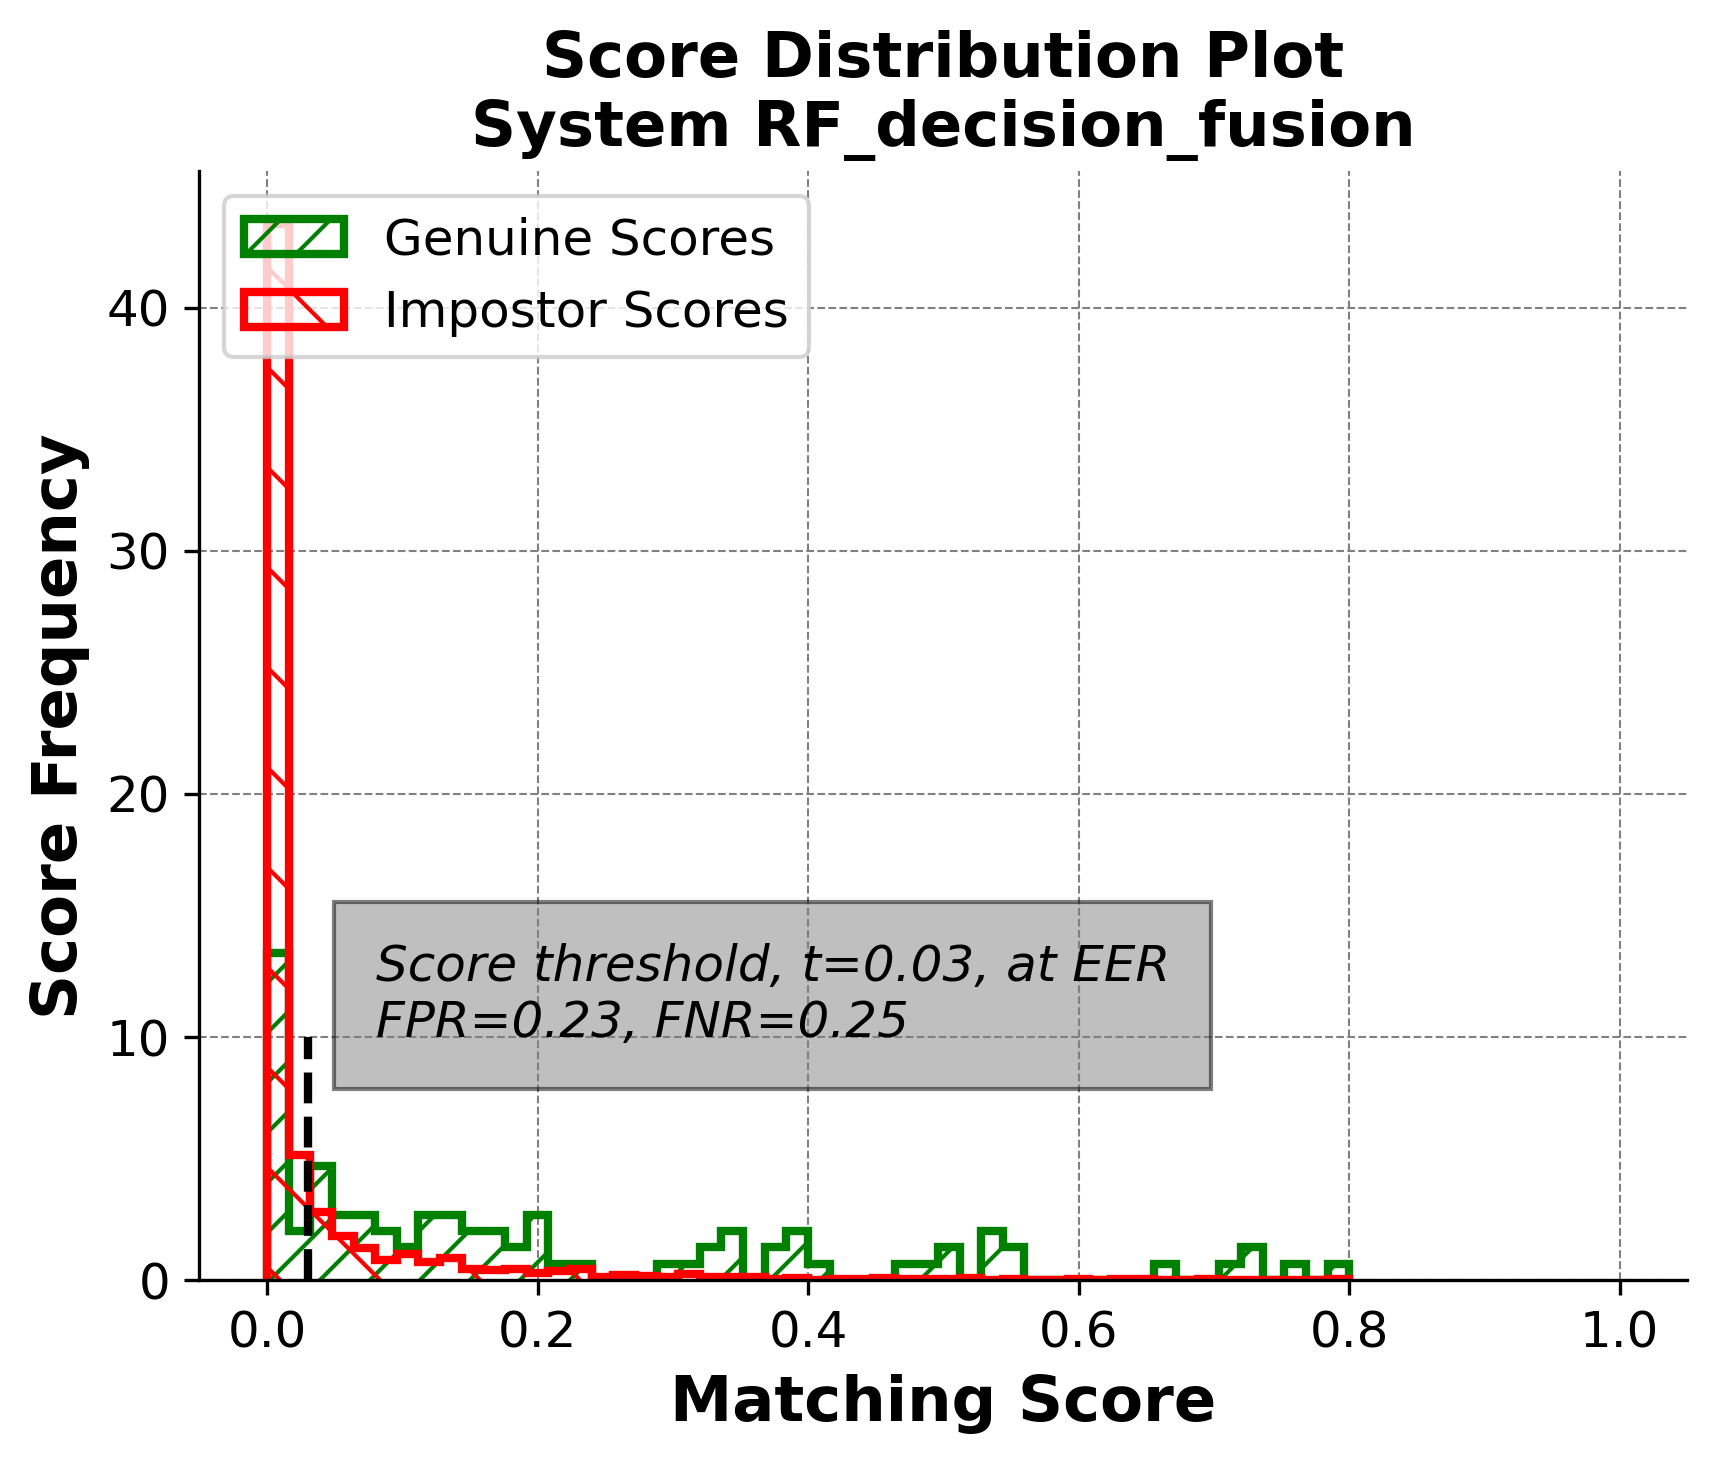
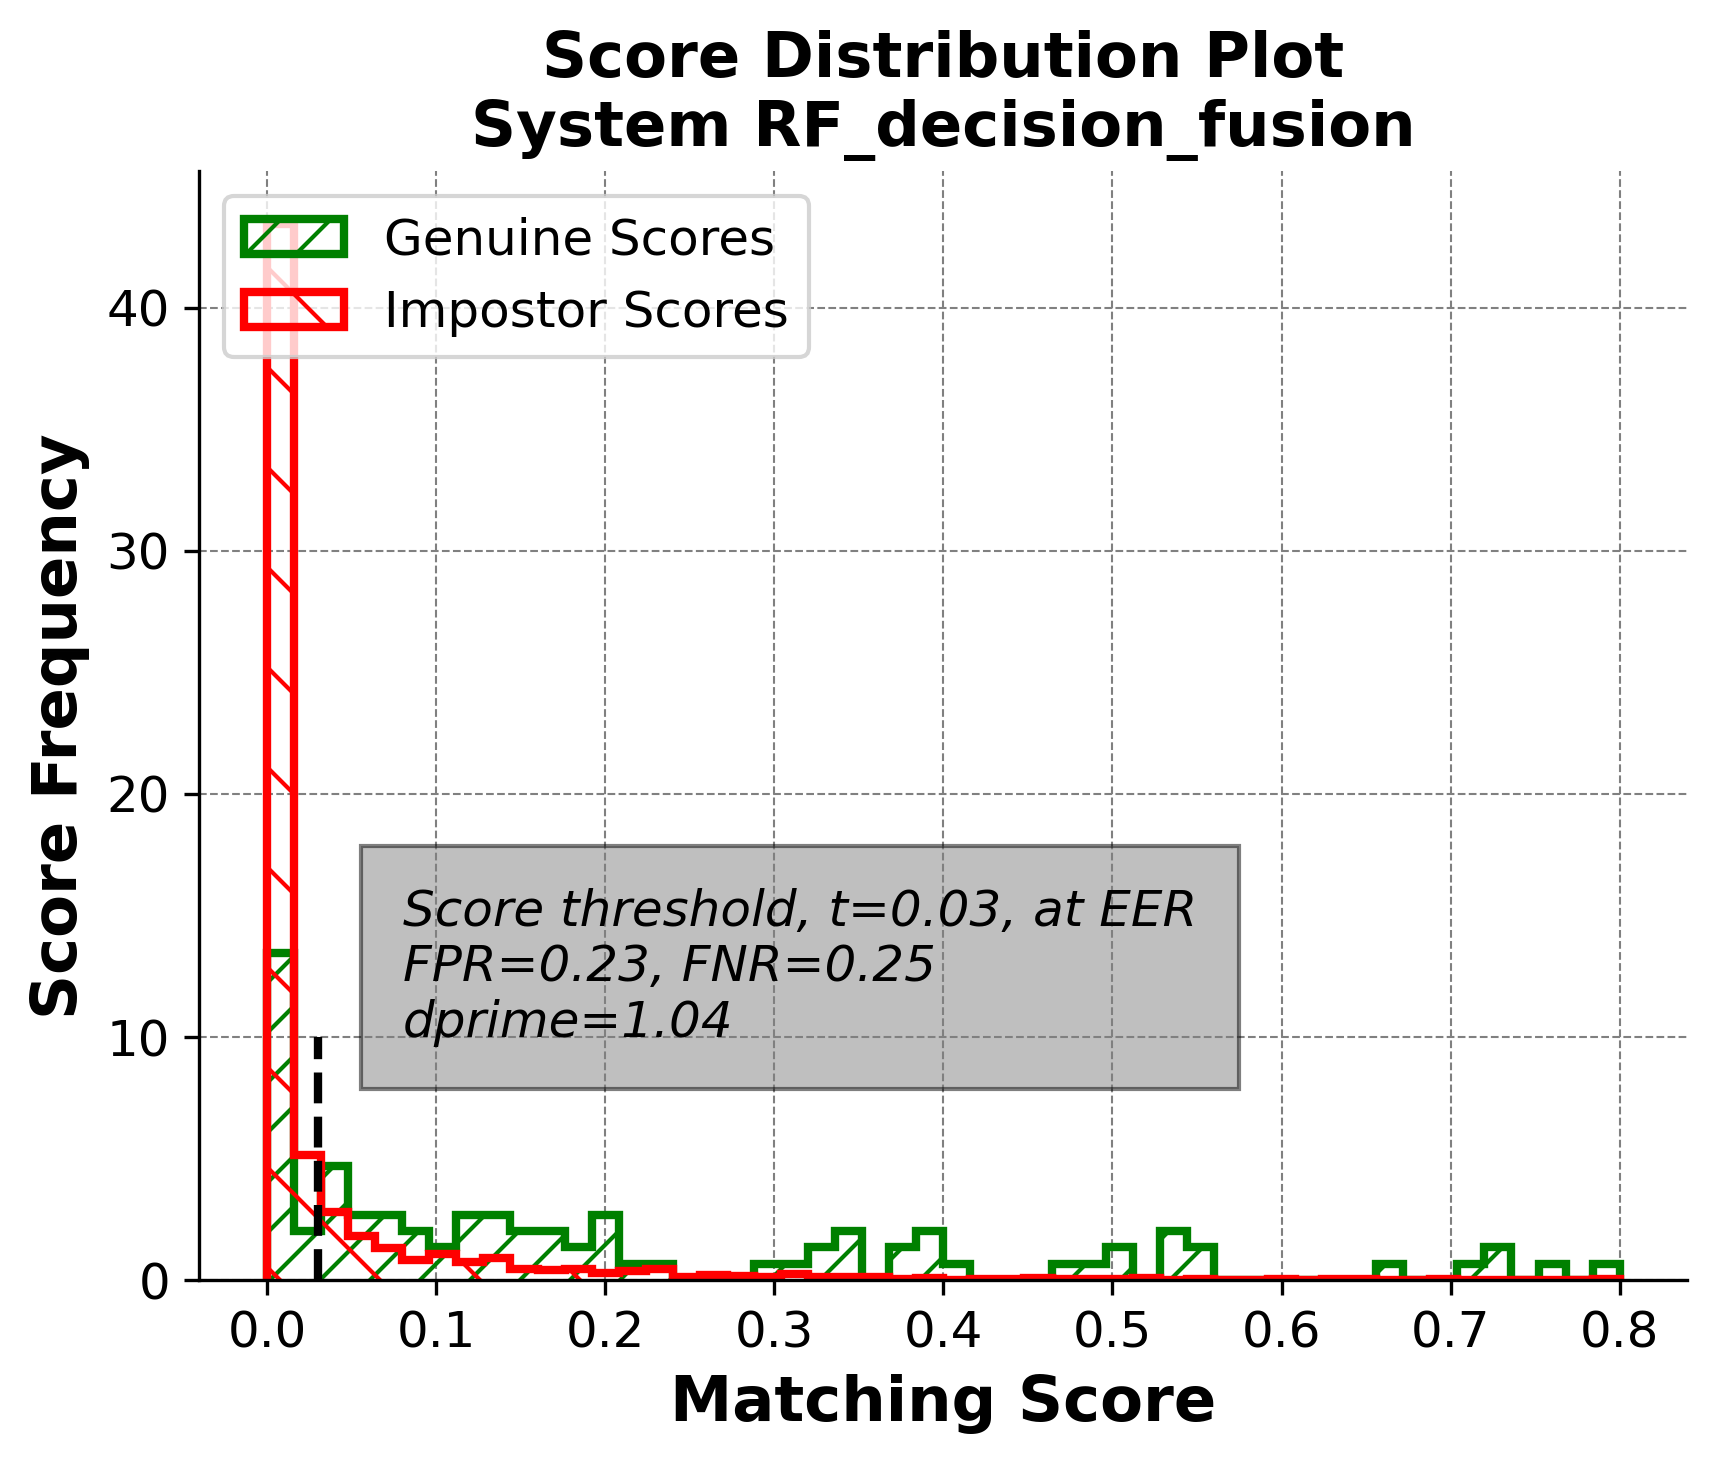
changed old img

Changed region(s): [[0.1543, 0.1537, 0.9569, 0.9221]]

diff --git a/performance_plots.py b/performance_plots.py
@@ -100,12 +100,17 @@ def compute_rates(gen_scores, imp_scores, thresholds):
 
 
 def plot_scoreDist(gen_scores, imp_scores, far, frr, eer_index, optimal_threshold, plot_title):
+    dprime = get_dprime(gen_scores, imp_scores)
     plt.figure()
     plt.hist(gen_scores, color='green', bins=50, density=True, lw=2, histtype='step', hatch='//', label='Genuine Scores')
     plt.hist(imp_scores, color='red', bins=50, density=True, lw=2, histtype='step', hatch='\\', label='Impostor Scores')
     plt.plot([optimal_threshold,optimal_threshold], [0, 10], '--', color="black", lw=2)
     ymax = plt.gca().get_ylim()[1]
-    plt.text(optimal_threshold+0.4, ymax * 0.8, f"Score threshold, t={optimal_threshold:.2f}, at EER\nFPR={far[eer_index]:.2f}, FNR={frr[eer_index]:.2f}", style='italic', fontsize=12, bbox={'facecolor': 'grey', 'alpha': 0.5, 'pad': 10}); plt.xlim([-0.05,1.05])
+    # plt.text(optimal_threshold+0.4, ymax * 0.8, f"Score threshold, t={optimal_threshold:.2f}, at EER\nFPR={far[eer_index]:.2f}, FNR={frr[eer_index]:.2f}", style='italic', fontsize=12, bbox={'facecolor': 'grey', 'alpha': 0.5, 'pad': 10}); plt.xlim([-0.05,1.05])
+    plt.text(optimal_threshold+0.05, 10, 
+    "Score threshold, t=%.2f, at EER\nFPR=%.2f, FNR=%.2f\ndprime=%.2f" 
+    % (optimal_threshold, far[eer_index], frr[eer_index], dprime), 
+    style='italic', fontsize=12, bbox={'facecolor': 'grey', 'alpha': 0.5, 'pad': 10})
     plt.grid(color = 'gray', linestyle = '--', linewidth = 0.5)
     plt.legend(loc='upper left', fontsize=12)
     plt.xlabel('Matching Score', fontsize = 15, weight = 'bold')
@@ -128,5 +133,5 @@ def performance(gen_scores, imp_scores, plot_title, num_thresholds):
         plot_roc_curve(far, tar, plot_title)
         plot_det_curve(far, frr, plot_title)
         get_dprime(gen_scores, imp_scores)
-        print(optimal_threshold)
+        #print(optimal_threshold)
         return optimal_threshold

diff --git a/get_images.py b/get_images.py
@@ -40,7 +40,7 @@ def get_images(image_directory):
                     X.append(img)
                     # add the image's label to a list y
                     y.append(subfolder)
-    
+
     print("All images are loaded")     
     # return the images and their labels      
     return X, y

diff --git a/main_original.PY b/main_original.PY
@@ -157,3 +157,4 @@ for i in range(len(imp_scores_knn)):
 
 all_authentications = len(gen_scores_knn) + len(imp_scores_knn)
 accuracy = correct_authentications / all_authentications
+
